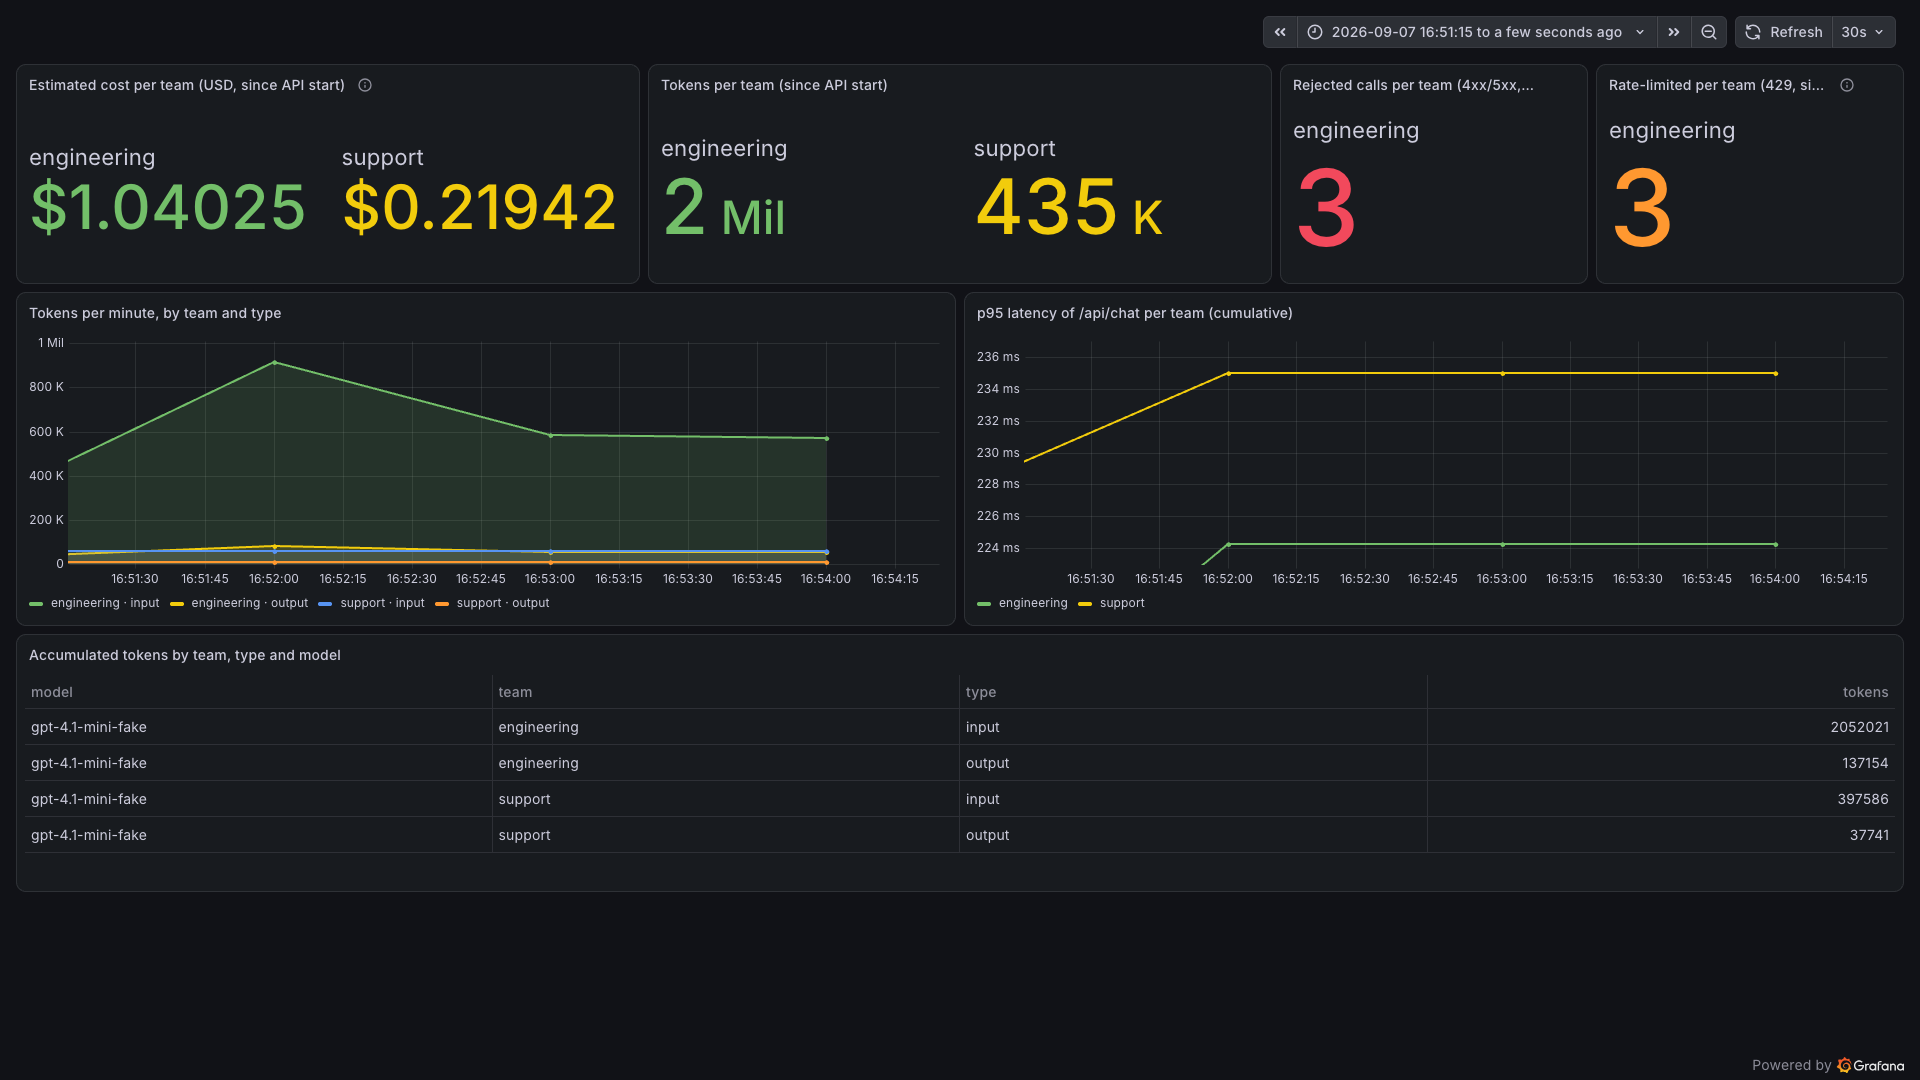
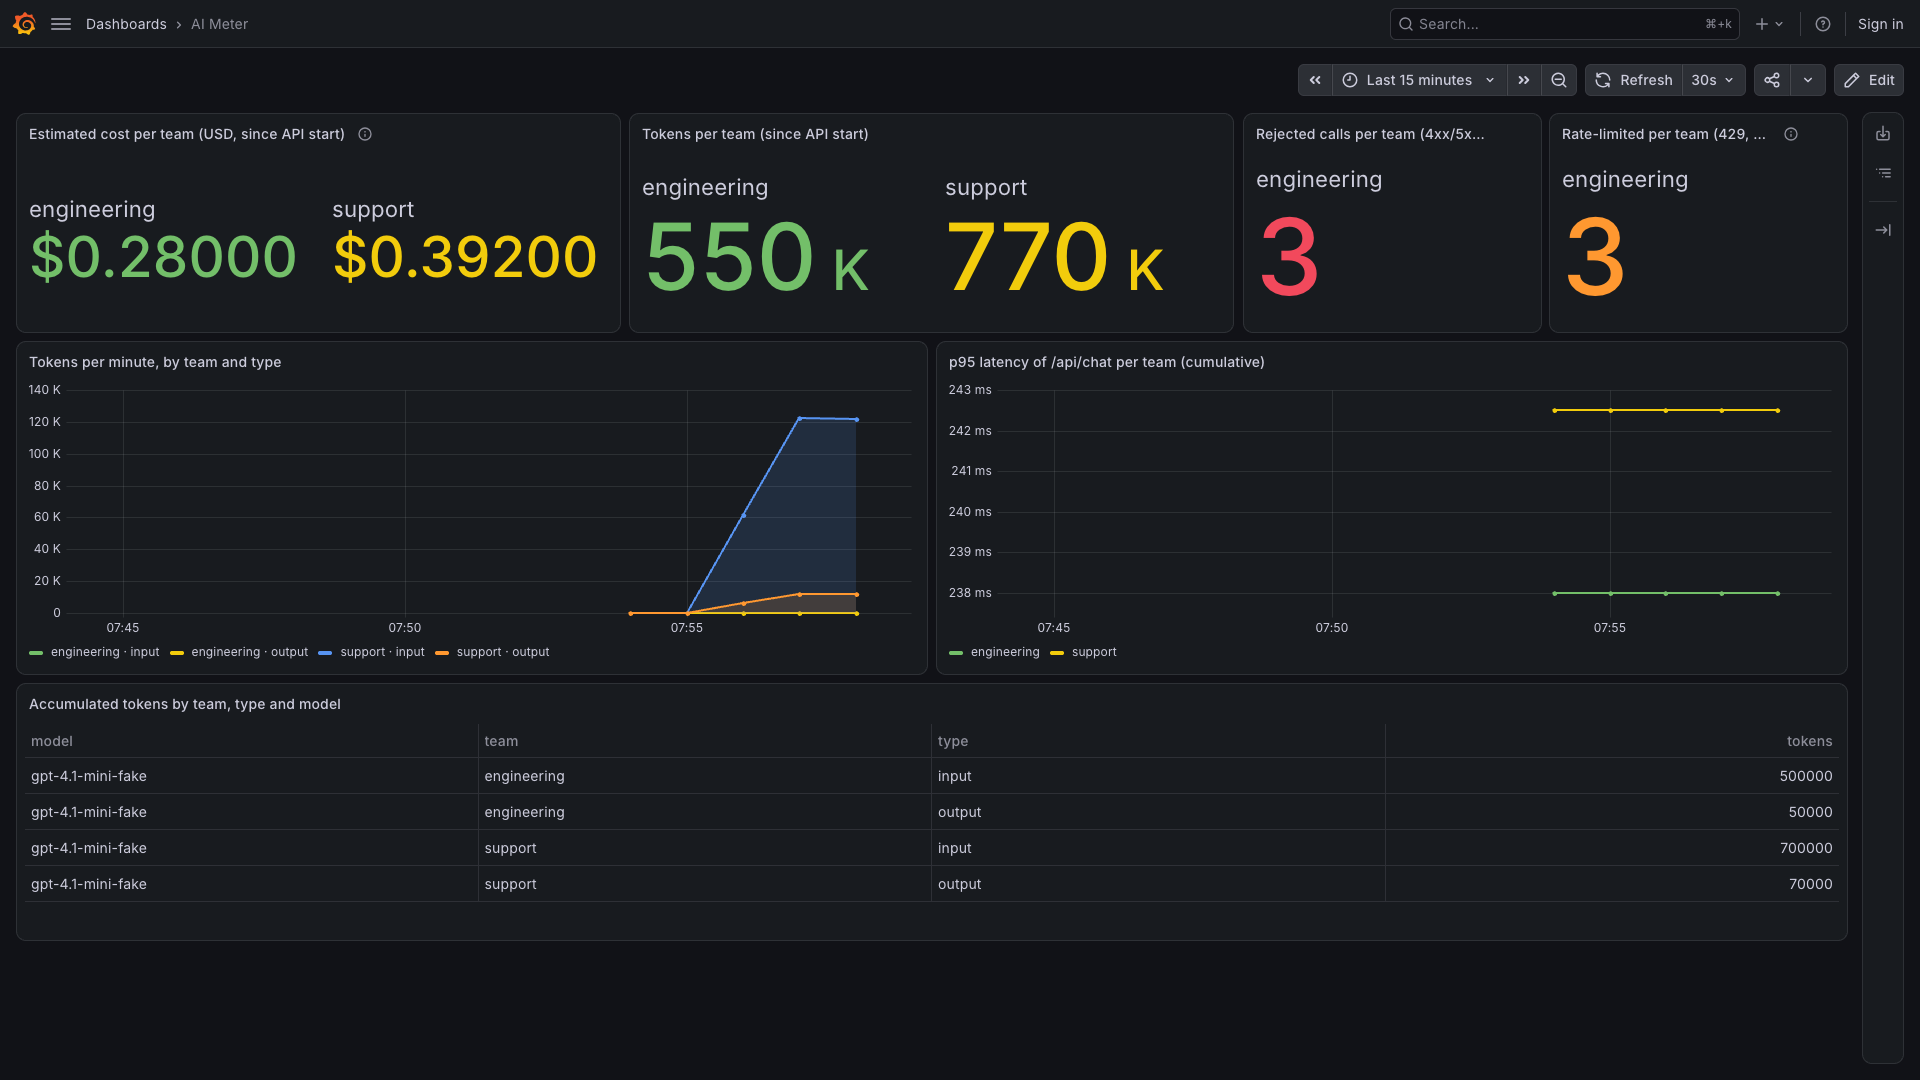
refactor: rename the use case method to Execute and recapture the dashboard
IAskChatUseCase exposed Ask, which the house convention reserves for the type
name: one class per operation, one public method named Execute. Renamed in the
interface, the use case, the controller call and the three use-case tests. The
README and lab guide no longer describe a deviation, because there is none.

The dashboard capture in docs/img predates the deterministic fake client and
showed totals the current code cannot produce. Replaced with a capture from the
blog post's lab against this commit.

diff --git a/tests/LlmObservabilityLab.UseCases.Tests/UseCases/Chat/Ask/AskChatUseCaseTests.cs b/tests/LlmObservabilityLab.UseCases.Tests/UseCases/Chat/Ask/AskChatUseCaseTests.cs
@@ -29,7 +29,7 @@ public sealed class AskChatUseCaseTests
             Prompt = prompt,
         };
 
-        AskChatResponse response = await useCase.Ask(request, teamId, cancellationToken);
+        AskChatResponse response = await useCase.Execute(request, teamId, cancellationToken);
 
         response.Text.Should().Be(assistantText);
         chatClientBuilder.VerifyReceivedPrompt(prompt, cancellationToken);
@@ -48,7 +48,7 @@ public sealed class AskChatUseCaseTests
             Prompt = string.Empty,
         };
 
-        Func<Task> act = () => useCase.Ask(request, "engineering", CancellationToken.None);
+        Func<Task> act = () => useCase.Execute(request, "engineering", CancellationToken.None);
 
         ValidationFailedException exception = (await act.Should()
             .ThrowAsync<ValidationFailedException>()).Which;
@@ -71,7 +71,7 @@ public sealed class AskChatUseCaseTests
             Prompt = "Explain observability.",
         };
 
-        await useCase.Ask(request, "support", CancellationToken.None);
+        await useCase.Execute(request, "support", CancellationToken.None);
 
         IReadOnlyList<CollectedMeasurement<long>> measurements = probe.Collector.GetMeasurementSnapshot();
         measurements.Should().HaveCount(2);

diff --git a/src/LlmObservabilityLab.Api/Controllers/ChatController.cs b/src/LlmObservabilityLab.Api/Controllers/ChatController.cs
@@ -22,7 +22,7 @@ public sealed class ChatController : ControllerBase
         [FromBody] AskChatRequest request,
         CancellationToken cancellationToken)
     {
-        AskChatResponse response = await useCase.Ask(request, teamContext.TeamId, cancellationToken);
+        AskChatResponse response = await useCase.Execute(request, teamContext.TeamId, cancellationToken);
 
         return Ok(response);
     }

diff --git a/src/LlmObservabilityLab.Api/UseCases/Chat/Ask/AskChatUseCase.cs b/src/LlmObservabilityLab.Api/UseCases/Chat/Ask/AskChatUseCase.cs
@@ -17,7 +17,7 @@ public sealed class AskChatUseCase : IAskChatUseCase
         _usageMeter = usageMeter;
     }
 
-    public async Task<AskChatResponse> Ask(
+    public async Task<AskChatResponse> Execute(
         AskChatRequest request,
         string teamId,
         CancellationToken cancellationToken)

diff --git a/src/LlmObservabilityLab.Api/UseCases/Chat/Ask/IAskChatUseCase.cs b/src/LlmObservabilityLab.Api/UseCases/Chat/Ask/IAskChatUseCase.cs
@@ -2,7 +2,7 @@ namespace LlmObservabilityLab.Api.UseCases.Chat.Ask;
 
 public interface IAskChatUseCase
 {
-    Task<AskChatResponse> Ask(
+    Task<AskChatResponse> Execute(
         AskChatRequest request,
         string teamId,
         CancellationToken cancellationToken);

diff --git a/README.md b/README.md
@@ -6,7 +6,7 @@ Read the accompanying blog post: [AI Meter: run a lab for LLM usage, estimated c
 
 ![Grafana showing simulated token usage and estimated cost for engineering and support, with three engineering calls blocked by the request limit](docs/img/ai-meter-grafana-demo.png)
 
-This earlier capture uses simulated data. Its totals differ from the repeatable demo below and represent no actual spending.
+The capture comes from the blog post's lab: `Teams__RequestsPerMinute=5`, eight `engineering` requests of which three were blocked, and `support` traffic spread over a few minutes. Its totals therefore differ from the two-request demo below. They are simulated and represent no actual spending.
 
 ## Run the lab
 
@@ -66,7 +66,7 @@ To connect Azure OpenAI, follow [the real-model setup](docs/lab-guide.md#connect
 
 ## Code conventions
 
-The API uses MVC controllers with dependencies injected into each action, and one use case per operation. The chat operation exposes `IAskChatUseCase.Ask`. Validation runs inside the use case and HTTP 400 errors share `ErrorResponse`.
+The API uses MVC controllers with dependencies injected into each action, and one use case per operation. The chat operation exposes `IAskChatUseCase.Execute`. Validation runs inside the use case and HTTP 400 errors share `ErrorResponse`.
 
 Keep explicit constructors, sealed concrete classes and namespaces matching folders. Tests use `Should...When...` names, FluentAssertions and Moq behind builders, in separate projects for use cases, validators and HTTP behaviour. The [convention details](docs/lab-guide.md#code-conventions) explain the boundaries.
 

diff --git a/docs/lab-guide.md b/docs/lab-guide.md
@@ -114,7 +114,7 @@ The API is one executable project with folders for the responsibilities it alrea
 |---|---|
 | HTTP | MVC controllers, literal routes, explicit binding attributes and dependencies injected into each action with `[FromServices]`. Actions return `IActionResult` and declare response types. |
 | Operations | One folder per operation under `UseCases/<Area>/<Operation>`, containing the interface, use case, validator and request/response records. |
-| Use case methods | One public method with the operation's verb: `IAskChatUseCase.Ask`. This project explicitly overrides the house convention of `Execute`. |
+| Use case methods | One public method named `Execute`: `IAskChatUseCase.Execute`. The operation's name lives in the type, not the method. |
 | Async work | Required `CancellationToken` as the last parameter, passed to I/O. Other async methods use `Async`; controller actions, test names and framework signatures follow their own contracts. |
 | Validation | FluentValidation runs at the start of the use case. Request records use named properties with defaults; response records use `required` named properties. |
 | Errors | `ErrorResponse` contains an `errors` array and optional `correlationId`. MVC binding failures, team rejection and quota rejection use that shape. `ExceptionFilter` maps application exceptions and hides unexpected exception details. |
